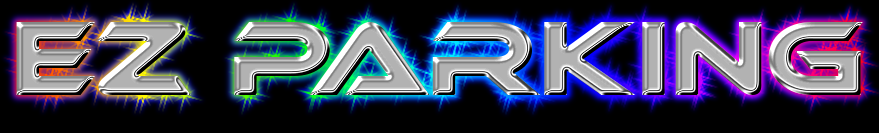
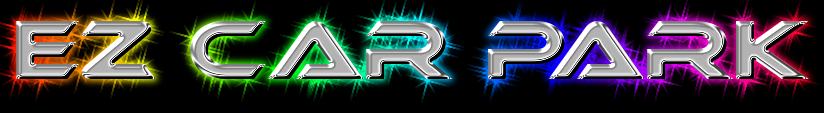
changed parking log, login.js and ran npm build

diff --git a/src/components/Login/login.js b/src/components/Login/login.js
@@ -1,8 +1,9 @@
 import React from "react";
 import "./../../animate.css";
-import ezparking from "./../Images/images/parking.png";
+import ezcarpark from "./../Images/images/parking.png";
 import { Link } from "react-router-dom";
 
+console.log(1111111, process.env.REACT_APP_LOGIN);
 export default function Login() {
   return (
     <div>
@@ -10,14 +11,19 @@ export default function Login() {
         <a
           id="loginanimation"
           className="login animated slideOutDown"
-              // href="http://localhost:4000/auth/callback"
-          href="http://localhost:4000/auth/google"
-             
+          // href="http://localhost:4000/auth/callback"
+          href={process.env.REACT_APP_LOGIN}
         >
           <img
             alt=""
-            src={ezparking}
-            style={{ height: "70px", margin: "10px", position:'absolute', top:'50px', left:'60px'}}
+            src={ezcarpark}
+            style={{
+              height: "70px",
+              margin: "10px",
+              position: "absolute",
+              top: "50px",
+              left: "60px"
+            }}
           />
         </a>
       </div>

diff --git a/server/index.js b/server/index.js
@@ -26,6 +26,8 @@ massive(CONNECTION_STRING).then(db => {
   app.set("db", db);
 });
 
+// app.use( express.static( `${__dirname}/../build` ) );
+
 const app = express();
 app.use(express.static(`${__dirname}/../build`));
 app.use(bodyParser.json());
